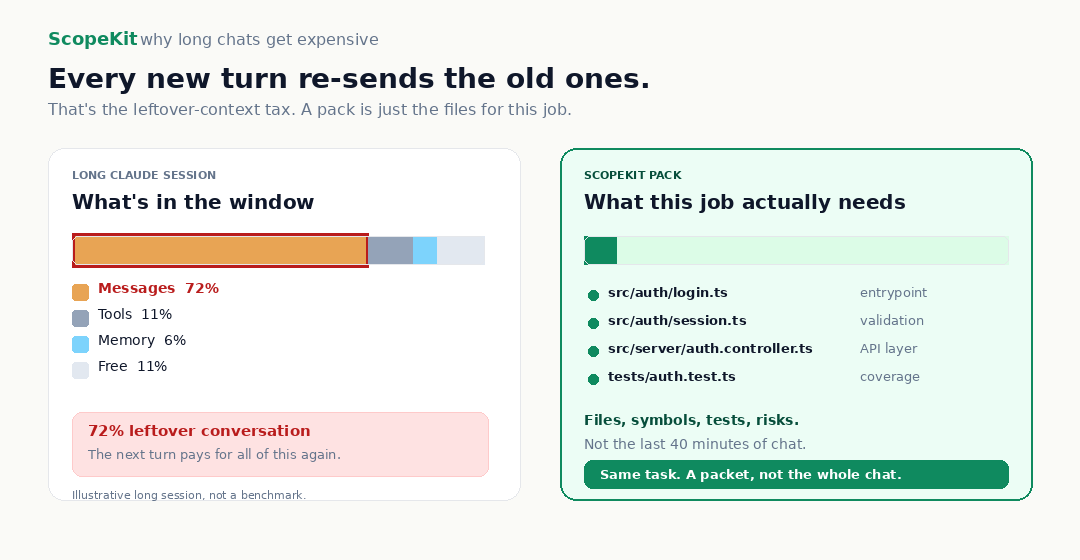
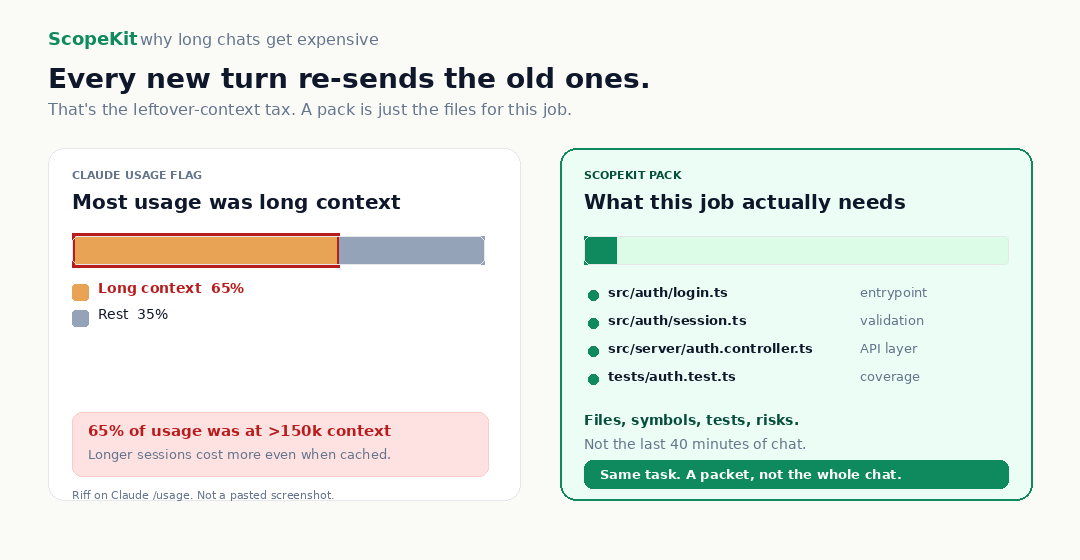
docs: match README hero to Claude /usage wording
Use the real hook: most usage at >150k context, longer sessions cost
more even when cached. Still an original graphic, not Anthropic UI.

diff --git a/README.md b/README.md
@@ -2,7 +2,7 @@
 
 **Long Claude chats bill you for leftovers.**
 
-Every new turn re-sends the old ones. That's why Claude's `/context` view looks like most of a long window is Messages, not the question you just asked. A chat that doubled in size can cost about 2x on the next turn.
+Every new turn re-sends the old ones. Claude's `/usage` can show that most of your spend was at >150k context — leftover chat, billed again on the next turn. Longer sessions cost more even when cached. A pack starts the next job small, not already over 150k.
 
 ScopeKit creates task-complete context packs for Claude, Codex, and Cursor: the files, symbols, tests, relationships, risks, and validation commands for one job. Local. No API key. No LLM indexing.
 
